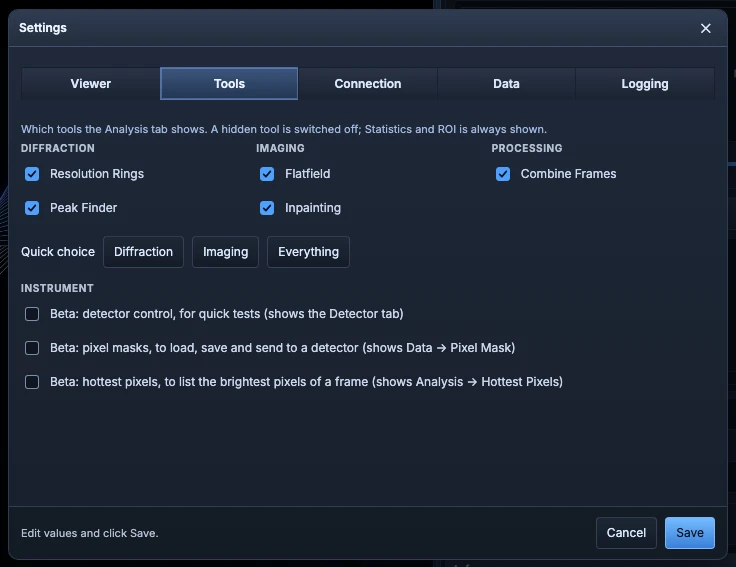
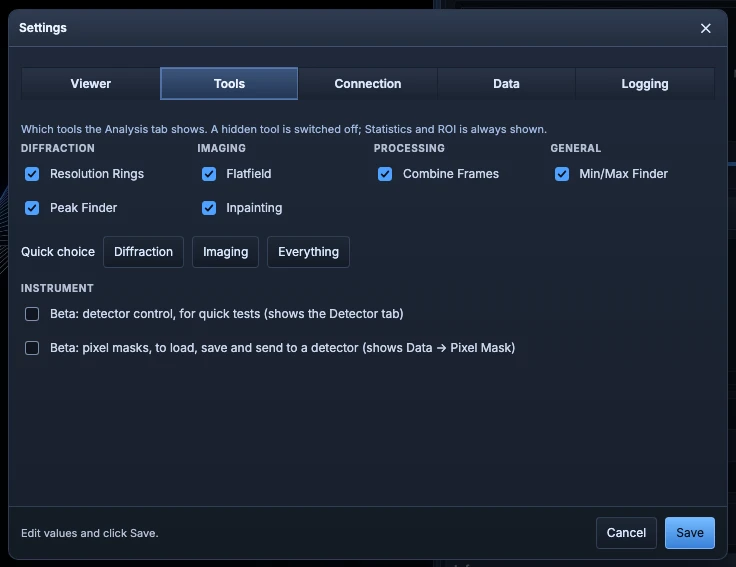
feat(analysis): the Min/Max Finder leaves beta, in a new General group
The Min/Max Finder was a beta switch under Settings -> Tools -> Instrument,
next to detector control and pixel masks. It is neither: it does not talk to
a detector, and nothing about it is experimental any more. It is now one of
the Analysis tools, shown by default (switched off) and hidden like the
others, through ui.hidden_tools as "minmax".

Settings -> Tools gains a fourth column, General, for it. The existing
three name kinds of work -- diffraction, imaging, processing -- and a list
of a frame's extreme pixels serves any of them, so it fits none. The quick
choices all keep it, as Inpainting and Combine Frames stay in both.

ui.minmax_finder goes; it never shipped, so it has no alias. The User Guide
section loses "(beta)" and moves next to Peak Finder; the guide's
Settings -> Tools picture is made again.

Changed region(s): [[0.5, 0.2399, 0.9062, 0.3298], [0.0312, 0.6596, 0.7812, 0.6896], [0.25, 0.2399, 0.4688, 0.3898]]

diff --git a/frontend/modules/minmax_finder_controller.js b/frontend/modules/minmax_finder_controller.js
@@ -1,11 +1,11 @@
 /**
- * Beta: Analysis -> Min/Max Finder, the highest and lowest pixels of the
- * frame on screen, listed and marked on the image.
+ * Analysis -> Min/Max Finder, the highest and lowest pixels of the frame on
+ * screen, listed and marked on the image.
  *
- * Shown only while `ui.minmax_finder` is on (Settings -> Tools). It answers a
- * detector question rather than a diffraction one -- which pixels read the
- * most, or the least -- so it takes none of the Peak Finder's tests for a
- * spot (see minmax_finder_utils.js). Masked pixels, and saturated ones while
+ * One of the Analysis tools (analysis_tools.js), in the general group: it
+ * answers a question about any frame rather than one kind of work -- which
+ * pixels read the most, or the least -- so it takes none of the Peak
+ * Finder's tests for a spot (see minmax_finder_utils.js). Masked pixels, and saturated ones while
  * Mask saturated is on, are left out as the Peak Finder leaves them out,
  * unless "Include masked pixels" is ticked: a hot pixel that is masked
  * already is a fair thing to look for. Left in, the gaps would fill the low
@@ -33,7 +33,6 @@ const pixelKey = (pixel) => `${pixel.kind}:${pixel.index}`;
 
 export function createMinMaxFinderController({ core, state, analysisState, elements, constants, callbacks }) {
   const {
-    minmaxSection,
     minmaxToggle,
     minmaxStateEl,
     minmaxSummaryEl,
@@ -231,14 +230,6 @@ export function createMinMaxFinderController({ core, state, analysisState, eleme
     window.setTimeout(run, 0);
   }
 
-  /** Show or hide the section; hiding it switches the tool off. */
-  function setEnabled(enabled) {
-    if (minmaxSection) minmaxSection.hidden = !enabled;
-    if (enabled || !minmaxToggle?.checked) return;
-    minmaxToggle.checked = false;
-    minmaxToggle.dispatchEvent(new window.Event("change", { bubbles: true }));
-  }
-
   function exportCsv() {
     const unavailable = unavailableReason();
     if (unavailable) {
@@ -300,8 +291,7 @@ export function createMinMaxFinderController({ core, state, analysisState, eleme
 
   if (minmaxModeSelect) minmaxModeSelect.value = analysisState.minmaxMode;
   if (minmaxCountInput) minmaxCountInput.value = String(analysisState.minmaxCount);
-  setEnabled(Boolean(state.minmaxFinder));
   render();
 
-  return { schedule, setEnabled, render, exportCsv };
+  return { schedule, render, exportCsv };
 }

diff --git a/frontend/tests/minmax_finder_controller.test.js b/frontend/tests/minmax_finder_controller.test.js
@@ -12,10 +12,10 @@ beforeAll(async () => {
 });
 
 // A 3 x 3 frame whose highest pixel (index 4) is a gap in the mask.
-function setup({ enabled = true, maskEnabled = true } = {}) {
+function setup({ maskEnabled = true } = {}) {
   vi.useFakeTimers();
   document.body.innerHTML = `
-    <section id="section" hidden>
+    <section id="section">
       <input id="toggle" type="checkbox" />
       <div id="state"></div><span id="summary"></span>
       <select id="mode"><option value="max"></option><option value="min"></option><option value="both"></option></select>
@@ -26,7 +26,6 @@ function setup({ enabled = true, maskEnabled = true } = {}) {
     </section>`;
   const byId = (id) => document.getElementById(id);
   const state = {
-    minmaxFinder: enabled,
     hasFrame: true,
     width: 3,
     height: 3,
@@ -53,7 +52,6 @@ function setup({ enabled = true, maskEnabled = true } = {}) {
     state,
     analysisState,
     elements: {
-      minmaxSection: byId("section"),
       minmaxToggle: byId("toggle"),
       minmaxStateEl: byId("state"),
       minmaxSummaryEl: byId("summary"),
@@ -93,11 +91,6 @@ function setup({ enabled = true, maskEnabled = true } = {}) {
 }
 
 describe("Min/Max Finder", () => {
-  it("is hidden until the beta setting is on", () => {
-    expect(setup({ enabled: false }).byId("section").hidden).toBe(true);
-    expect(setup({ enabled: true }).byId("section").hidden).toBe(false);
-  });
-
   it("lists the highest pixels, leaving out masked ones, and marks them", () => {
     const { switchOn, rows, core, byId } = setup();
     switchOn();
@@ -184,12 +177,11 @@ describe("Min/Max Finder", () => {
     expect(analysisState.minmaxSelected).toEqual([0, 1]);
   });
 
-  it("switches off when the setting is turned off", () => {
-    const { switchOn, controller, analysisState, byId, rows } = setup();
+  it("switches off and clears with its switch, as hiding the tool does", () => {
+    const { switchOn, analysisState, byId, rows } = setup();
     switchOn();
-    controller.setEnabled(false);
-    expect(byId("section").hidden).toBe(true);
-    expect(byId("toggle").checked).toBe(false);
+    byId("toggle").checked = false;
+    byId("toggle").dispatchEvent(new Event("change"));
     expect(analysisState.minmaxEnabled).toBe(false);
     expect(rows()).toEqual([]);
   });

diff --git a/frontend/modules/settings_controller.js b/frontend/modules/settings_controller.js
@@ -49,7 +49,6 @@ export function createSettingsController({
     settingsToolHints,
     settingsDetectorControl,
     settingsPixelMask,
-    settingsMinmaxFinder,
     settingsHiddenTools,
     settingsLanguage,
     settingsPixelLabelMin,
@@ -241,7 +240,6 @@ export function createSettingsController({
       "ui.tool_hints": settingsToolHints,
       "ui.detector_control": settingsDetectorControl,
       "ui.pixel_mask": settingsPixelMask,
-      "ui.minmax_finder": settingsMinmaxFinder,
       "ui.hidden_tools": settingsHiddenTools,
       "ui.auto_check_updates": settingsAutoCheckUpdates,
       "ui.allow_update_download": settingsAllowUpdateDownload,
@@ -404,9 +402,6 @@ export function createSettingsController({
     if (settingsPixelMask) {
       settingsPixelMask.checked = Boolean(config?.ui?.pixel_mask ?? state.pixelMask ?? false);
     }
-    if (settingsMinmaxFinder) {
-      settingsMinmaxFinder.checked = Boolean(config?.ui?.minmax_finder ?? state.minmaxFinder ?? false);
-    }
     fillHiddenTools(config?.ui?.hidden_tools ?? state.hiddenTools ?? []);
     if (settingsLanguage) {
       settingsLanguage.value = String(config?.ui?.language ?? state.language ?? "en");
@@ -506,7 +501,6 @@ export function createSettingsController({
         tool_hints: Boolean(settingsToolHints?.checked),
         detector_control: Boolean(settingsDetectorControl?.checked),
         ...(settingsPixelMask ? { pixel_mask: Boolean(settingsPixelMask.checked) } : {}),
-        ...(settingsMinmaxFinder ? { minmax_finder: Boolean(settingsMinmaxFinder.checked) } : {}),
         ...(settingsHiddenTools ? { hidden_tools: collectHiddenTools() } : {}),
         auto_check_updates: Boolean(settingsAutoCheckUpdates?.checked),
         allow_update_download: Boolean(settingsAllowUpdateDownload?.checked),
@@ -549,10 +543,6 @@ export function createSettingsController({
     if (typeof cfg.pixel_mask !== "undefined") {
       state.pixelMask = Boolean(cfg.pixel_mask);
       setPixelMaskEnabled?.(state.pixelMask);
-    }
-    if (typeof cfg.minmax_finder !== "undefined") {
-      state.minmaxFinder = Boolean(cfg.minmax_finder);
-      core.minmaxFinder?.setEnabled(state.minmaxFinder);
     }
     if (typeof cfg.hidden_tools !== "undefined") {
       setHiddenTools?.(normalizeHiddenTools(cfg.hidden_tools));

diff --git a/frontend/index.html b/frontend/index.html
@@ -1483,7 +1483,7 @@
                 </div>
               </div>
             </section>
-            <section class="panel-section is-collapsed" data-section="minmax-finder" id="minmax-finder-section" hidden>
+            <section class="panel-section is-collapsed" data-section="minmax-finder">
               <button class="section-title" type="button" data-section-toggle>
                 <span class="section-title-main">
                   <label class="section-switch">
@@ -2364,6 +2364,10 @@
                 <span class="settings-tools-group-title" data-i18n="tools.group.processing">Processing</span>
                 <label class="checkbox settings-check"><input type="checkbox" data-tool-visible="combine" /><span data-i18n="series.ui.section_title">Combine Frames</span></label>
               </div>
+              <div class="settings-tools-group">
+                <span class="settings-tools-group-title" data-i18n="tools.group.general">General</span>
+                <label class="checkbox settings-check"><input type="checkbox" data-tool-visible="minmax" /><span data-i18n="minmax.section_title">Min/Max Finder</span></label>
+              </div>
             </fieldset>
             <div class="settings-tools-presets">
               <span data-i18n="tools.presets">Quick choice</span>
@@ -2380,10 +2384,6 @@
               <label class="checkbox settings-check">
                 <input id="settings-pixel-mask" type="checkbox" />
                 <span data-i18n="settings.tools.pixel_mask">Beta: pixel masks, to load, save and send to a detector (shows Data → Pixel Mask)</span>
-              </label>
-              <label class="checkbox settings-check">
-                <input id="settings-minmax-finder" type="checkbox" />
-                <span data-i18n="settings.tools.minmax_finder">Beta: min/max finder, to list the highest and lowest pixels of a frame (shows Analysis → Min/Max Finder)</span>
               </label>
             </div>
           </div>

diff --git a/frontend/tests/settings_controller.test.js b/frontend/tests/settings_controller.test.js
@@ -65,6 +65,7 @@ function renderSettingsShell() {
         <input type="checkbox" data-tool-visible="flatfield" />
         <input type="checkbox" data-tool-visible="inpainting" />
         <input type="checkbox" data-tool-visible="combine" />
+        <input type="checkbox" data-tool-visible="minmax" />
       </fieldset>
       <button type="button" data-tool-preset="imaging">Imaging</button>
       <button type="button" data-tool-preset="everything">Everything</button>
@@ -747,7 +748,7 @@ describe("settings controller: Tools", () => {
       initialConfig: { ui: { hidden_tools: ["rings", "combine"] } },
     });
     await controller.openSettingsModal();
-    expect(shown()).toEqual({ rings: false, peaks: true, flatfield: true, inpainting: true, combine: false });
+    expect(shown()).toEqual({ rings: false, peaks: true, flatfield: true, inpainting: true, combine: false, minmax: true });
 
     document.querySelector('[data-tool-visible="peaks"]').checked = false;
     document.querySelector('[data-tool-visible="combine"]').checked = true;
@@ -762,7 +763,7 @@ describe("settings controller: Tools", () => {
     await controller.openSettingsModal();
 
     document.querySelector('[data-tool-preset="imaging"]').click();
-    expect(shown()).toEqual({ rings: false, peaks: false, flatfield: true, inpainting: true, combine: true });
+    expect(shown()).toEqual({ rings: false, peaks: false, flatfield: true, inpainting: true, combine: true, minmax: true });
     document.querySelector('[data-tool-preset="everything"]').click();
     expect(Object.values(shown()).every(Boolean)).toBe(true);
     expect(savedConfigs).toHaveLength(0);

diff --git a/frontend/modules/analysis_tools.js b/frontend/modules/analysis_tools.js
@@ -2,7 +2,8 @@
  * The Analysis tab's optional tools, and which of them a user hides.
  *
  * Statistics and ROI is not listed: everyone uses it, so it is always shown.
- * The rest serve different work -- diffraction, imaging, processing -- and a
+ * The rest serve different work -- diffraction, imaging, processing -- or,
+ * under general, any kind (the Min/Max Finder), and a
  * tab holding all of them is crowded for anyone doing only one. Settings ->
  * Tools hides them, stored as `ui.hidden_tools` (a hidden rather than a shown
  * list, so a tool added later appears unless someone hid it on purpose).
@@ -20,13 +21,15 @@ export const ANALYSIS_TOOLS = [
   { id: "flatfield", section: "flatfield", group: "imaging", label: "flatfield.section_title", toggleId: "flat-toggle" },
   { id: "inpainting", section: "inpainting", group: "imaging", label: "inpaint.section_title", toggleId: "inpaint-toggle" },
   { id: "combine", section: "series-summing", group: "processing", label: "series.ui.section_title" },
+  { id: "minmax", section: "minmax-finder", group: "general", label: "minmax.section_title", toggleId: "minmax-enable" },
 ];
 
 const TOOL_IDS = ANALYSIS_TOOLS.map((tool) => tool.id);
 
 /**
  * What the quick choices hide. Inpainting and Combine Frames stay in both:
- * diffraction fills module gaps too, and both kinds of work sum frames.
+ * diffraction fills module gaps too, and both kinds of work sum frames. The
+ * general tools stay in every one.
  */
 export const TOOL_PRESETS = {
   diffraction: ["flatfield"],

diff --git a/frontend/modules/app_elements.js b/frontend/modules/app_elements.js
@@ -291,7 +291,6 @@ export function queryAppElements(doc = document) {
     peaksBody: byId("peaks-body"),
     peaksSectionStateEl: byId("peaks-state"),
     peaksSummaryEl: byId("summary-peaks"),
-    minmaxSection: byId("minmax-finder-section"),
     minmaxToggle: byId("minmax-enable"),
     minmaxStateEl: byId("minmax-state"),
     minmaxModeSelect: byId("minmax-mode"),
@@ -460,7 +459,6 @@ export function queryAppElements(doc = document) {
     settingsToolHints: byId("settings-tool-hints"),
     settingsDetectorControl: byId("settings-detector-control"),
     settingsPixelMask: byId("settings-pixel-mask"),
-    settingsMinmaxFinder: byId("settings-minmax-finder"),
     settingsHiddenTools: byId("settings-hidden-tools"),
     settingsLanguage: byId("settings-language"),
     settingsPixelLabelMin: byId("settings-pixel-label-min"),

diff --git a/frontend/tests/code_size_guard.test.js b/frontend/tests/code_size_guard.test.js
@@ -34,8 +34,9 @@ const MAX_LINES = 1000;
 const LINE_BASELINE = {
   // +12 for the Min/Max Finder's wiring, after the 22 blank lines it was cut by;
   // +1 to hand the BG/FG count rows to the statistics; -5 for formatValue's
-  // body, now formatLevelValue in format_utils.js.
-  "frontend/app.js": 3518,
+  // body, now formatLevelValue in format_utils.js; -1 for the Min/Max
+  // Finder's beta note.
+  "frontend/app.js": 3517,
   // +17 in the stylesheet split: one <link> per part in frontend/styles/.
   // +45 for the Min/Max Finder section and its opt-in: markup lives here.
   // +3 for the Below BG / BG to FG / Above FG rows of the statistics.

diff --git a/frontend/app.js b/frontend/app.js
@@ -710,8 +710,7 @@ const {
   updateRingsSectionState,
 } = analysisOverlayController;
 
-// Beta: Analysis -> Min/Max Finder, shown while ui.minmax_finder is on. It
-// runs whenever the Peak Finder is scheduled.
+// Analysis -> Min/Max Finder. It runs whenever the Peak Finder is scheduled.
 core.minmaxFinder = createMinMaxFinderController({
   core,
   state,

diff --git a/frontend/styles/12-export-settings.css b/frontend/styles/12-export-settings.css
@@ -465,7 +465,7 @@
 /* Settings -> Tools: one column of checkboxes per kind of work. */
 .settings-tools {
   display: grid;
-  grid-template-columns: repeat(3, minmax(0, 1fr));
+  grid-template-columns: repeat(4, minmax(0, 1fr));
   gap: 12px;
   margin: 0;
   padding: 0;

diff --git a/frontend/modules/state.js b/frontend/modules/state.js
@@ -118,7 +118,6 @@ function createUiPreferencesState() {
     autoCheckUpdates: true,
     detectorControl: false,
     pixelMask: false,
-    minmaxFinder: false,
     pixelLabelMinCellPx: 18,
     pixelLabelMaxLabels: 4000,
     frameCacheMb: 256,

diff --git a/backend/config.py b/backend/config.py
@@ -77,9 +77,6 @@ DEFAULT_CONFIG: dict[str, Any] = {
         # Beta: Data -> Pixel Mask, to load, save and (with detector control)
         # send a detector's pixel mask. Off unless switched on.
         "pixel_mask": False,
-        # Beta: Analysis -> Min/Max Finder, the highest and lowest pixels of a frame.
-        # Off unless switched on; it needs nothing from the backend.
-        "minmax_finder": False,
         "hidden_tools": [],
         # The shared list of known detectors; empty means
         # ~/.config/albis/known_detectors.json. A relative path is taken from
@@ -129,7 +126,6 @@ _CONFIG_VALUE_TYPES: dict[tuple[str, str], tuple[type, ...]] = {
     ("ui", "language"): (str,),
     ("ui", "detector_control"): (bool, int, float, str),
     ("ui", "pixel_mask"): (bool, int, float, str),
-    ("ui", "minmax_finder"): (bool, int, float, str),
     ("ui", "hidden_tools"): (list, str),
     ("ui", "known_detectors_file"): (str,),
 }
@@ -187,7 +183,7 @@ def _normalize_allowed_hosts(value: Any) -> list[str]:
 # ROI is not among them: everyone uses it. A name not listed here is dropped,
 # so a key written by a newer ALBIS, or a typo, hides nothing. Hidden rather
 # than shown, so a tool added later appears unless someone hid it on purpose.
-HIDEABLE_TOOLS: tuple[str, ...] = ("rings", "peaks", "flatfield", "inpainting", "combine")
+HIDEABLE_TOOLS: tuple[str, ...] = ("rings", "peaks", "flatfield", "inpainting", "combine", "minmax")
 
 
 def _normalize_hidden_tools(value: Any) -> list[str]:
@@ -469,7 +465,6 @@ def normalize_config(raw: dict[str, Any] | None) -> dict[str, Any]:
             "language": ui_language,
             "detector_control": get_bool(merged, ("ui", "detector_control"), False),
             "pixel_mask": get_bool(merged, ("ui", "pixel_mask"), False),
-            "minmax_finder": get_bool(merged, ("ui", "minmax_finder"), False),
             "hidden_tools": _normalize_hidden_tools(get_nested(merged, ("ui", "hidden_tools"), [])),
             "known_detectors_file": get_str(merged, ("ui", "known_detectors_file"), "").strip(),
         },
